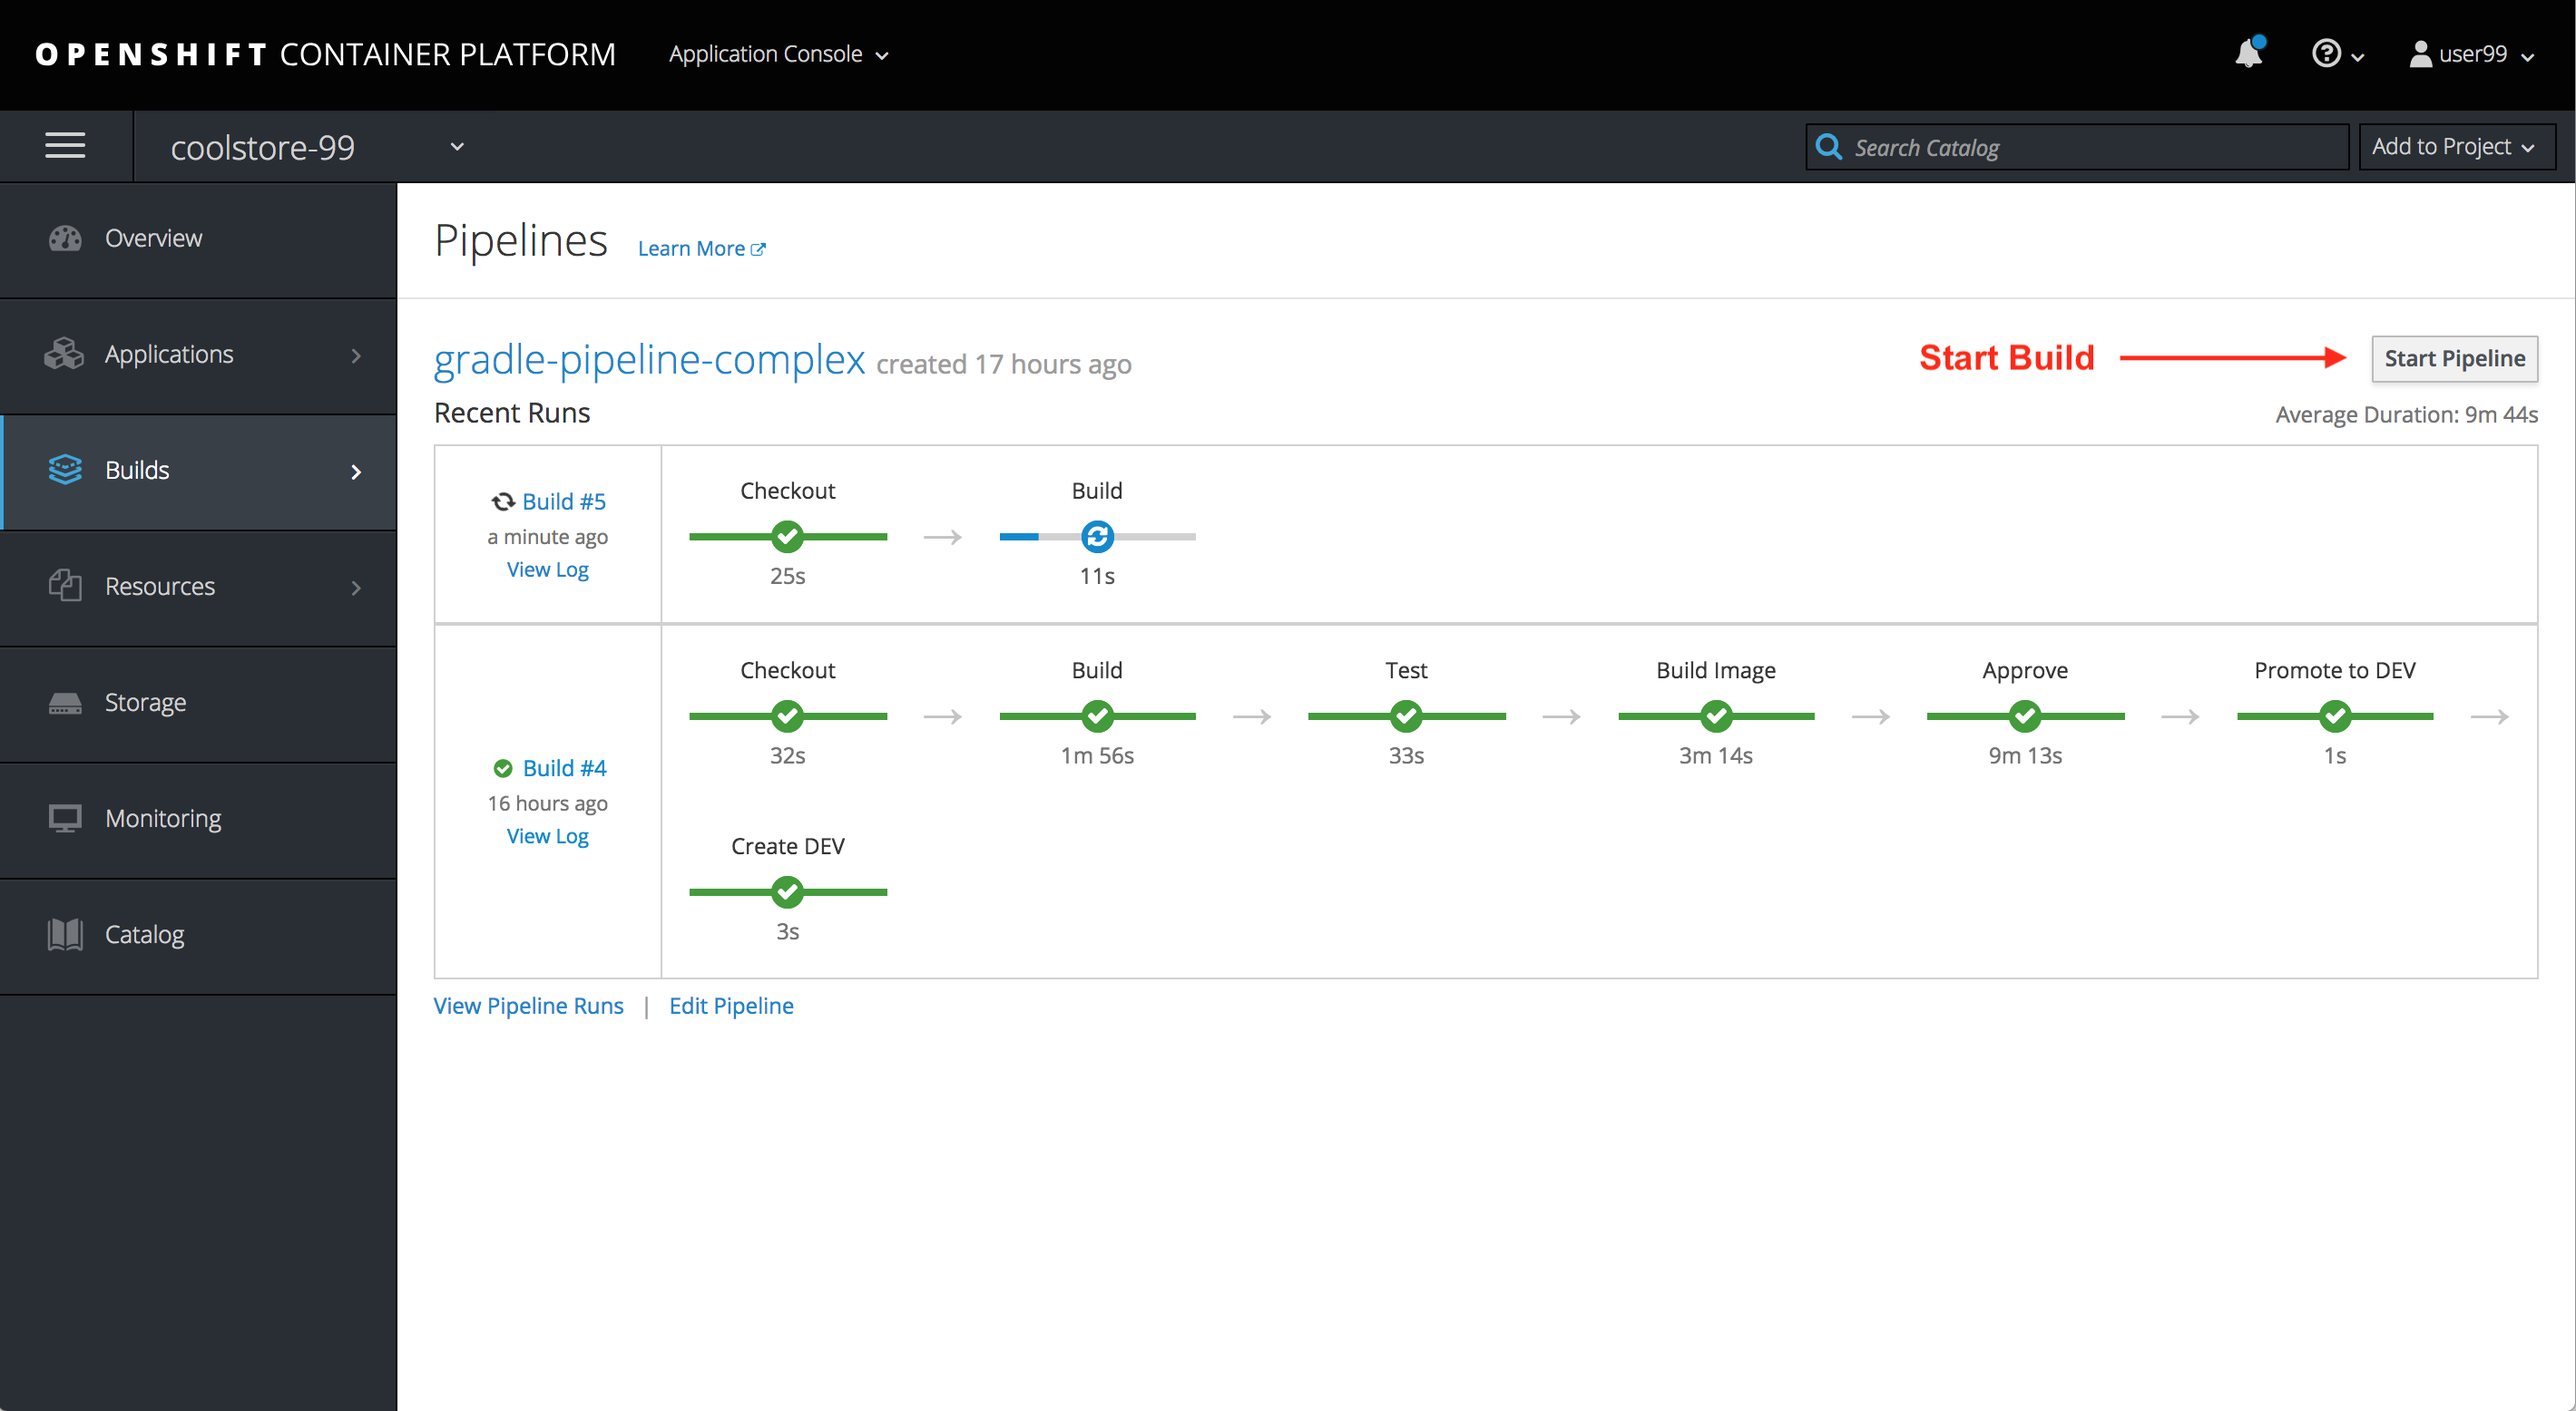
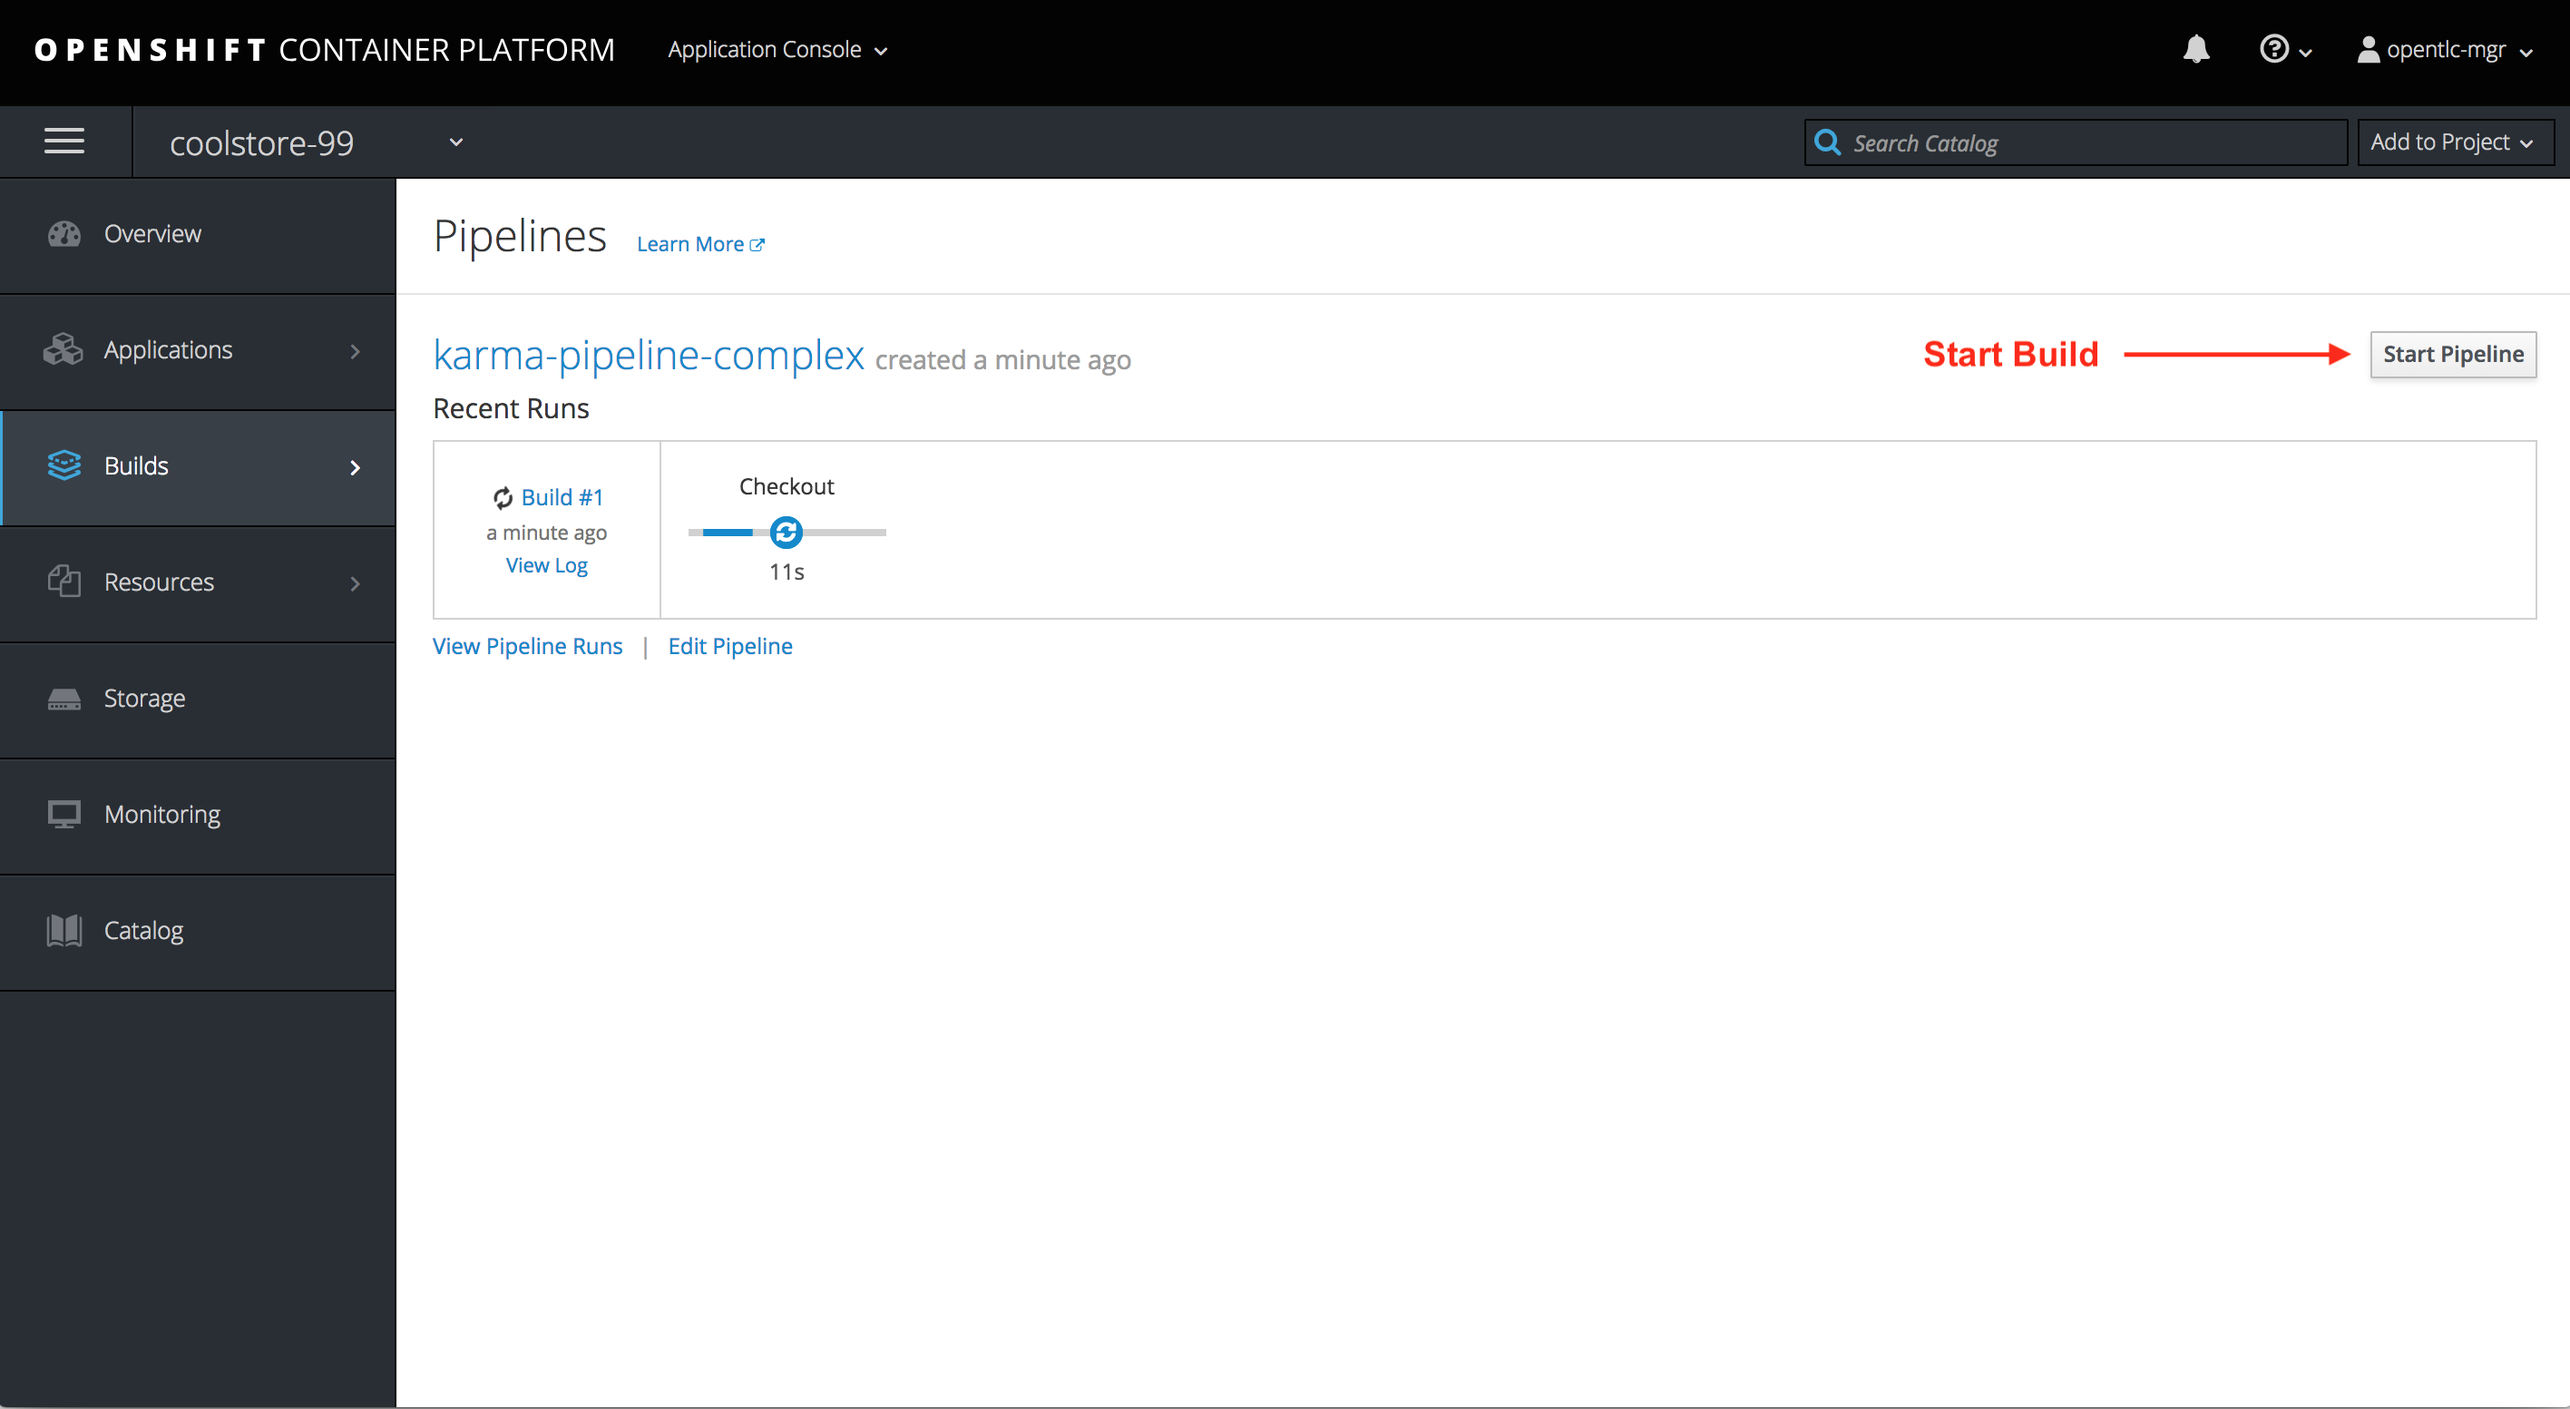
new images and cosmetic changes

diff --git a/gradle-complex-pipeline.md b/gradle-complex-pipeline.md
@@ -1,6 +1,6 @@
-## Creating Custom Jenkins Slave Pods
+## Creating gradle-ready Jenkins Slave Pods
 
-This lab is part of a more to the point with regards to CI/CD, you can find the original version [here](https://github.com/openshift-labs/devops-guides).
+This lab is part of a, more to the point, set of labs with regards to CI/CD, you can find the original version [here](https://github.com/openshift-labs/devops-guides).
 
 As a continuation of the previous lab we're going to use a custom Jenkins slave to build our new inventory service using [Gradle](https://gradle.org/).
 
@@ -30,9 +30,11 @@ After Maven, Gradle is one of the popular build tools for Java projects. Let’s
 Due to similarities between Maven and Gradle, the simplest way to start is to create a Dockerfile and build upon the Maven slave image. Here is the content of the [Dockerfile on GitHub](https://raw.githubusercontent.com/redhat-developer-adoption-emea/cloud-native-labs/ocp-3.10/solutions/lab-12/Dockerfile) for building the Gradle slave image:
 
 ~~~shell
-FROM registry.access.redhat.com/openshift3/jenkins-slave-maven-rhel7
+FROM registry.access.redhat.com/openshift3/jenkins-agent-maven-35-rhel7:v3.10
 
-ENV GRADLE_VERSION=4.9
+MAINTAINER Siamak Sadeghianfar <ssadeghi@redhat.com>
+
+ENV GRADLE_VERSION=4.8.1
 
 USER root
 
@@ -124,6 +126,8 @@ $  oc new-app -n {{COOLSTORE_PROJECT}} --template=jenkins-ephemeral
 
 When Jenkins is up and running, you can login into Jenkins using your OpenShift credentials then *Manage Jenkins -> Configure System*. Scroll down to the Kubernetes section and notice that there is a Kubernetes Pod Template defined automatically for the Gradle slave image your created.
 
+Your configuration should resemble this one.
+
 ![Kubernetes Pod Template]({% image_path devops-slave-pod-template.png %}){:width="500px"}
 
 You can instruct Jenkins to run a pipeline using a specific slave image by specifying the slave label in the `node` step. The slave image label is either the image name or if specified, the value of `slave-label` annotation on the image stream. The following is a simple pipeline definition that clones our new Inventory service from the Git repository and then builds it using Gradle:
@@ -166,11 +170,22 @@ spec:
     type: JenkinsPipeline
 ~~~
 
-**OPTIONAL:** Create an OpenShift Pipeline that embeds the above pipeline definition. Click on *Add to project* in the CI/CD Infra project and then *Import YAML/JSON*. Paste the following YAML script in the text field and then click on *Create*. Finally start this pipeline.
+**OPTIONAL:** Create an OpenShift Pipeline that embeds this simple pipeline. Click on *Add to project* in the CI/CD Infra project and then *Import YAML/JSON*. Paste the YAML descriptor in the text field and then click on *Create*. Finally start this pipeline.
 
 #### Building a pipe-line leveraging our custom Jenkins slave
 
-Now we're going to create an OpenShift Pipeline that embeds a pipeline definition that builds our app using `gradle`, test it, builds an image using a binary file (`ROOT.jar`), ... , deploy the app and promote the image to our dev environment `{{COOLSTORE_PROJECT}}-dev`.
+Now we're going to create an OpenShift Pipeline that embeds a pipeline definition that builds our app using `gradle`. These are the steps that this pipeline conprehends:
+
+, test it, builds an image using a binary file (`ROOT.jar`), ... , deploy the app and promote the image to our dev environment `{{COOLSTORE_PROJECT}}-dev`.
+
+* Checkout: from the git repository
+* Build: building the jar file (binary asset) using gradle
+* Test
+* Sonar: scan sources using Sonarqube
+* Nexus: push our jar file to Nexus 3
+* Build Image: triggers the build of a Java based image from the binary file built previously
+* Approve: manually approve/reject from Jenkins
+* Promote to DEV: tag image as `dev` ready which triggers the (re)deployment of the new image
 
 > The next pipeline (or to be precise Jenkins' service account in project `{{COOLSTORE_PROJECT}}`) needs to be able to `edit` and `view` contents in project `{{COOLSTORE_PROJECT}}-dev`. 
 > Additionally the default service account in project `{{COOLSTORE_PROJECT}}-dev` needs to be able to pull an image from an image stream in project `{{COOLSTORE_PROJECT}}`, this means we have to add this role `system:image-puller` to this service account `system:serviceaccount:coolstore-dev:default`
@@ -371,8 +386,11 @@ build "karma-pipeline-complex-5" started
 
 Or from the web-console, **Builds ➡ Pipelines**
 
-![Pipeline Log]({% image_path devops-start-build-karma-tests-pipeline.png %}){:width="740px"}
+![Pipeline Log]({% image_path devops-start-build-gradle-pipeline.png %}){:width="740px"}
+
+After a successful pipeline built we should be able to run the following curl test with success.
 
 ~~~shell
 $ curl http://inventory-{{COOLSTORE_PROJECT}}-dev-${MY_USER_NUMBER}.${APP_BASE}/api/inventory
+[{"itemId":"329299","quantity":35},{"itemId":"329199","quantity":12},{"itemId":"165613","quantity":45},{"itemId":"165614","quantity":87},{"itemId":"165954","quantity":43},{"itemId":"444434","quantity":32},{"itemId":"444435","quantity":53}]
 ~~~

diff --git a/node-karma-complex-pipeline.md b/node-karma-complex-pipeline.md
@@ -125,7 +125,7 @@ $  oc new-app -n {{COOLSTORE_PROJECT}} --template=jenkins-ephemeral
 
 When Jenkins is up and running, you can login into Jenkins using your OpenShift credentials then *Manage Jenkins -> Configure System*. Scroll down to the Kubernetes section and notice that there is a Kubernetes Pod Template defined automatically for the karma slave image your created.
 
-![Kubernetes Pod Template]({% image_path devops-slave-pod-template.png %}){:width="500px"}
+![Kubernetes Pod Template]({% image_path devops-karma-slave-pod-template.png %}){:width="500px"}
 
 You can instruct Jenkins to run a pipeline using a specific slave image by specifying the slave label in the `node` step or in the `agent` step. The slave image label is either the image name or if specified, the value of `slave-label` annotation on the image stream. The following is a simple pipeline definition that clones our new Inventory service from the Git repository and then runs the `build` and `test` tasks using [npx](https://medium.com/@maybekatz/introducing-npx-an-npm-package-runner-55f7d4bd282b):
 
@@ -165,11 +165,11 @@ spec:
     type: JenkinsPipeline
 ~~~
 
-**OPTIONAL:** Create an OpenShift Pipeline that embeds the above pipeline definition. Click on *Add to project* in the CI/CD Infra project and then *Import YAML/JSON*. Paste the following YAML script in the text field and then click on *Create*. Finally start this pipeline.
+**OPTIONAL:** Create an OpenShift Pipeline that embeds this simple pipeline. Click on *Add to project* in the CI/CD Infra project and then *Import YAML/JSON*. Paste the YAML descriptor in the text field and then click on *Create*. Finally start this pipeline.
 
 #### Building a pipe-line leveraging our custom Jenkins slave
 
-Now we're going to create an OpenShift Pipeline that embeds a pipeline definition that builds our app using `ng`, test it, builds an image using a binary file (`tar` of the dist/karma-tests folder), deploy the app and promote the image to our dev environment `{{COOLSTORE_PROJECT}}-dev`.
+Now we're going to create an OpenShift Pipeline that embeds a pipeline definition that builds our app using `ng`, test it, builds an image, deploy the app and promote the image to our dev environment `{{COOLSTORE_PROJECT}}-dev`.
 
 > The next pipeline (or to be precise Jenkins' service account in project `{{COOLSTORE_PROJECT}}`) needs to be able to `edit` and `view` contents in project `{{COOLSTORE_PROJECT}}-dev`. 
 > Additionally the default service account in project `{{COOLSTORE_PROJECT}}-dev` needs to be able to pull an image from an image stream in project `{{COOLSTORE_PROJECT}}`, this means we have to add this role `system:image-puller` to this service account `system:serviceaccount:coolstore-dev:default`
@@ -353,3 +353,11 @@ build "karma-pipeline-complex-5" started
 Or from the web-console, **Builds ➡ Pipelines**
 
 ![Pipeline Log]({% image_path devops-start-build-karma-tests-pipeline.png %}){:width="740px"}
+
+After a successful pipeline built we should be able to visit our NodeJS application. Please go to {{COOLSTORE_PROJECT}}-dev project and have a look to the Overview area, it should look like this. 
+
+![Pipeline Log]({% image_path devops-karma-tests-overview.png %}){:width="740px"}
+
+Once there, please click on the link.
+
+![Pipeline Log]({% image_path devops-karma-tests-app-deployed.png %}){:width="740px"}
